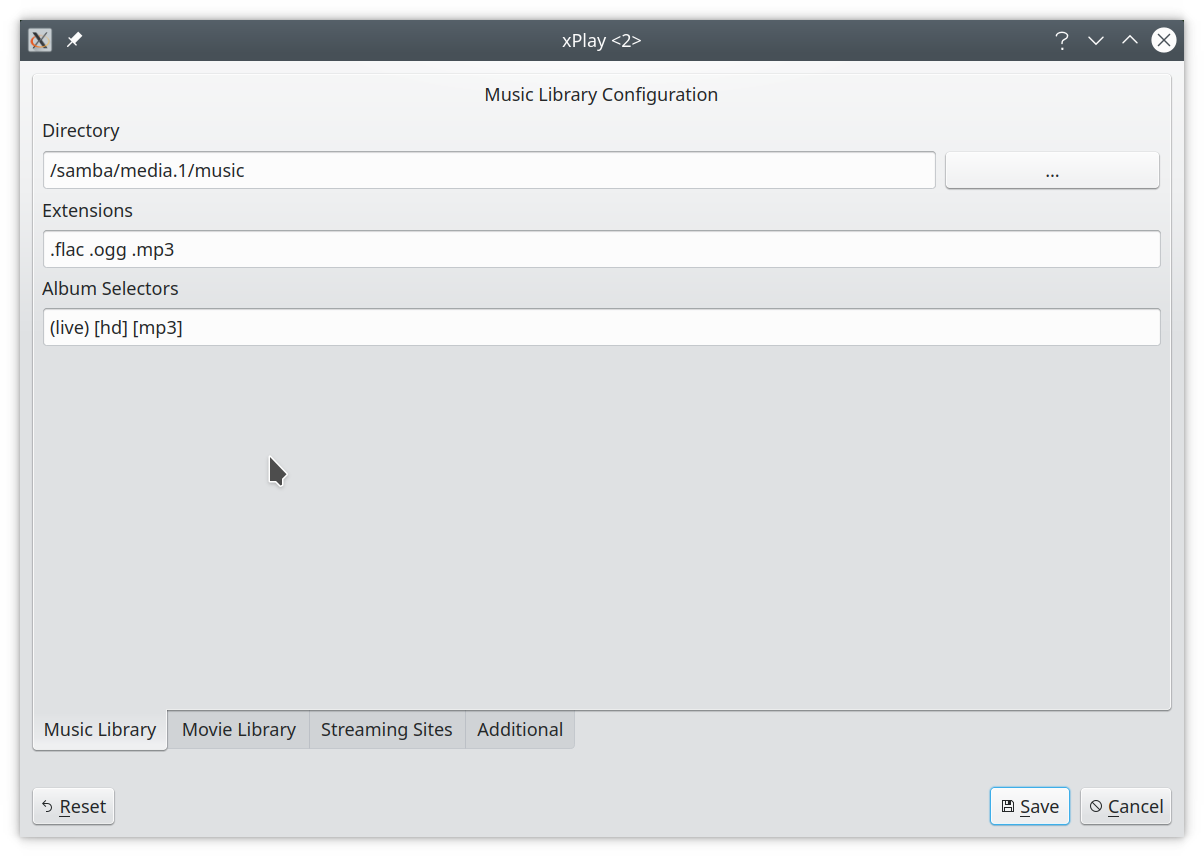
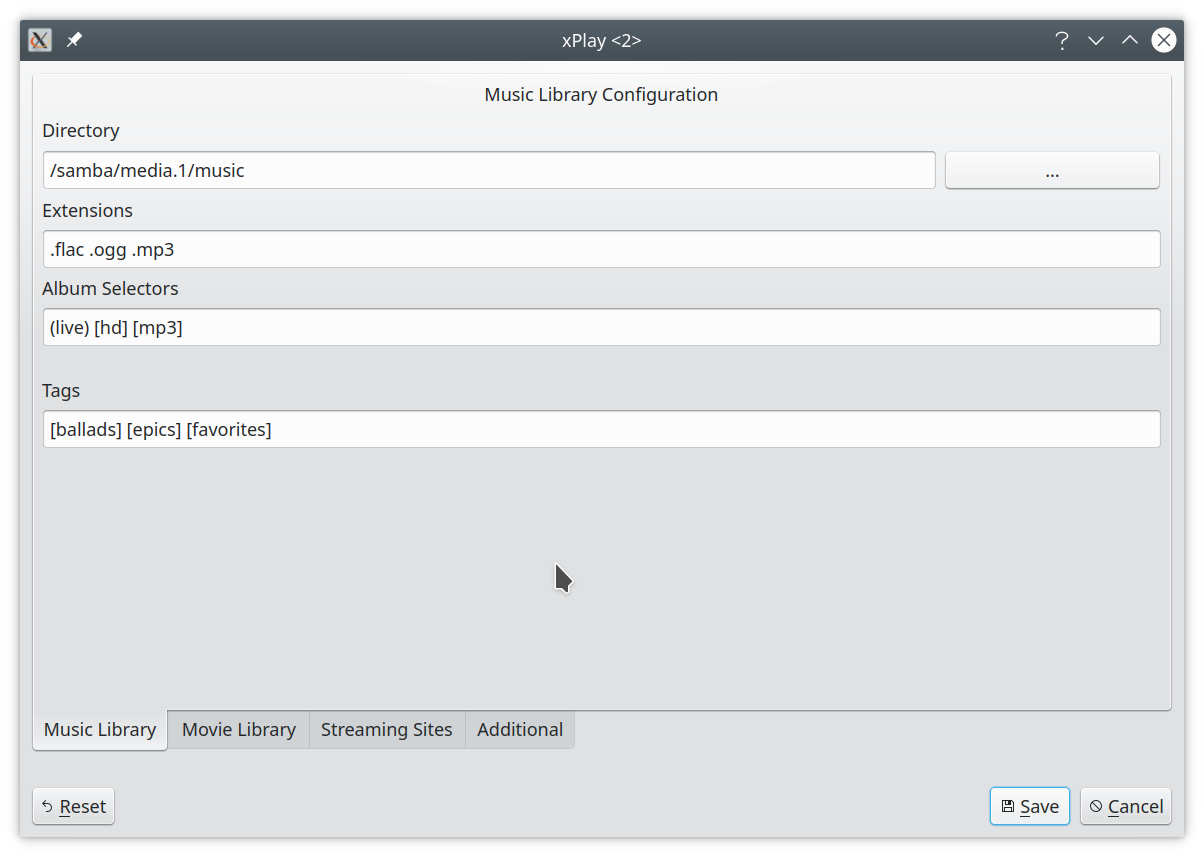
Update CHANGELOG.md and README.md. Update screenshots and version number.

Changed region(s): [[0.0307, 0.4551, 0.9834, 0.5764], [0.461, 0.6674, 0.4917, 0.6978]]

diff --git a/xPlay.cpp b/xPlay.cpp
@@ -155,7 +155,7 @@ int main(int argc, char* argv[])
 {
     QApplication playApp(argc, argv);
     QApplication::setApplicationName("xPlay");
-    QApplication::setApplicationVersion("0.8.1");
+    QApplication::setApplicationVersion("0.9.0");
     QCommandLineParser playAppParser;
     if (handleCommandLine(playApp, playAppParser)) {
         // Exit if the command line was handled.

diff --git a/README.md b/README.md
@@ -117,12 +117,19 @@ currently played file. In addition there is player control section with a *play/
 and *clear queue* buttons and a volume dialer. If you double-click on an entry of the queue then the player jumps
 to this track. Right-clicking on a queue entry will remove this track from the queue.
 
-The artist info can be accessed through a context menu by a right-click on an entry in the artist list. The artist
-info is a small simple web browser with minimal navigational control buttons such as home, back and forward as well
-as selecting a zoom factor. Pressing the *close* button will end the artist info view. A white filled star icon
-indicates that no URL is currently stored within our database. A grey filled star indicates that the URL was taken
-out of our database. Clicking on a white filled star will store the current URL to the database. The database entry
-is removed if we click on a grey filled star.
+The artist popup menu can be accessed through a context menu by a right-click on an entry in the artist list. The 
+menu entry *Link To Website* leads to the artist info which is a small simple web browser with minimal navigational 
+control buttons such as home, back and forward as well as selecting a zoom factor. Pressing the *close* button will end
+the artist info view. A white filled star icon indicates that no URL is currently stored within our database. A grey
+filled star indicates that the URL was taken out of our database. Clicking on a white filled star will store the current
+URL to the database. The database entry is removed if we click on a grey filled star.
+The artist popup will also show other artists in the *Other Artists* section that have been played before or after 
+the selected artist in the past. You can jump to this artist by selecting the corresponding artist popup menu entry.
+
+Tags can be added and removed by the tag popup menu which can be accessed through a context menu by a right-click on an
+entry in the track list or the queue. The tags are stored in the database. The tag dialog can be accessed by pressing 
+the *Tags* button at the bottom of the queue list. The tag dialog allows to load or extend the queue with tracks that
+have a specific tag.
 
 The Rotel widget allows to control a Rotel A12 or A14 amp via a network connection. The volume can be adjusted
 (maximum of 60) and the input can be selected. The values for bass and treble can be adjusted (from -10 to +10)

diff --git a/CHANGELOG.md b/CHANGELOG.md
@@ -1,5 +1,13 @@
 # Changelog
 
+## 0.9.0 - 2021-05-30
+
+- Add tag functionality.
+- Add drag-and-drop move support for queue.
+- Add artist transitions to artist popup menu.  
+- Minor UI fixes.
+
+
 ## 0.8.1 - 2021-05-23
 
 - Fix UI resizing issue affecting queue list.
